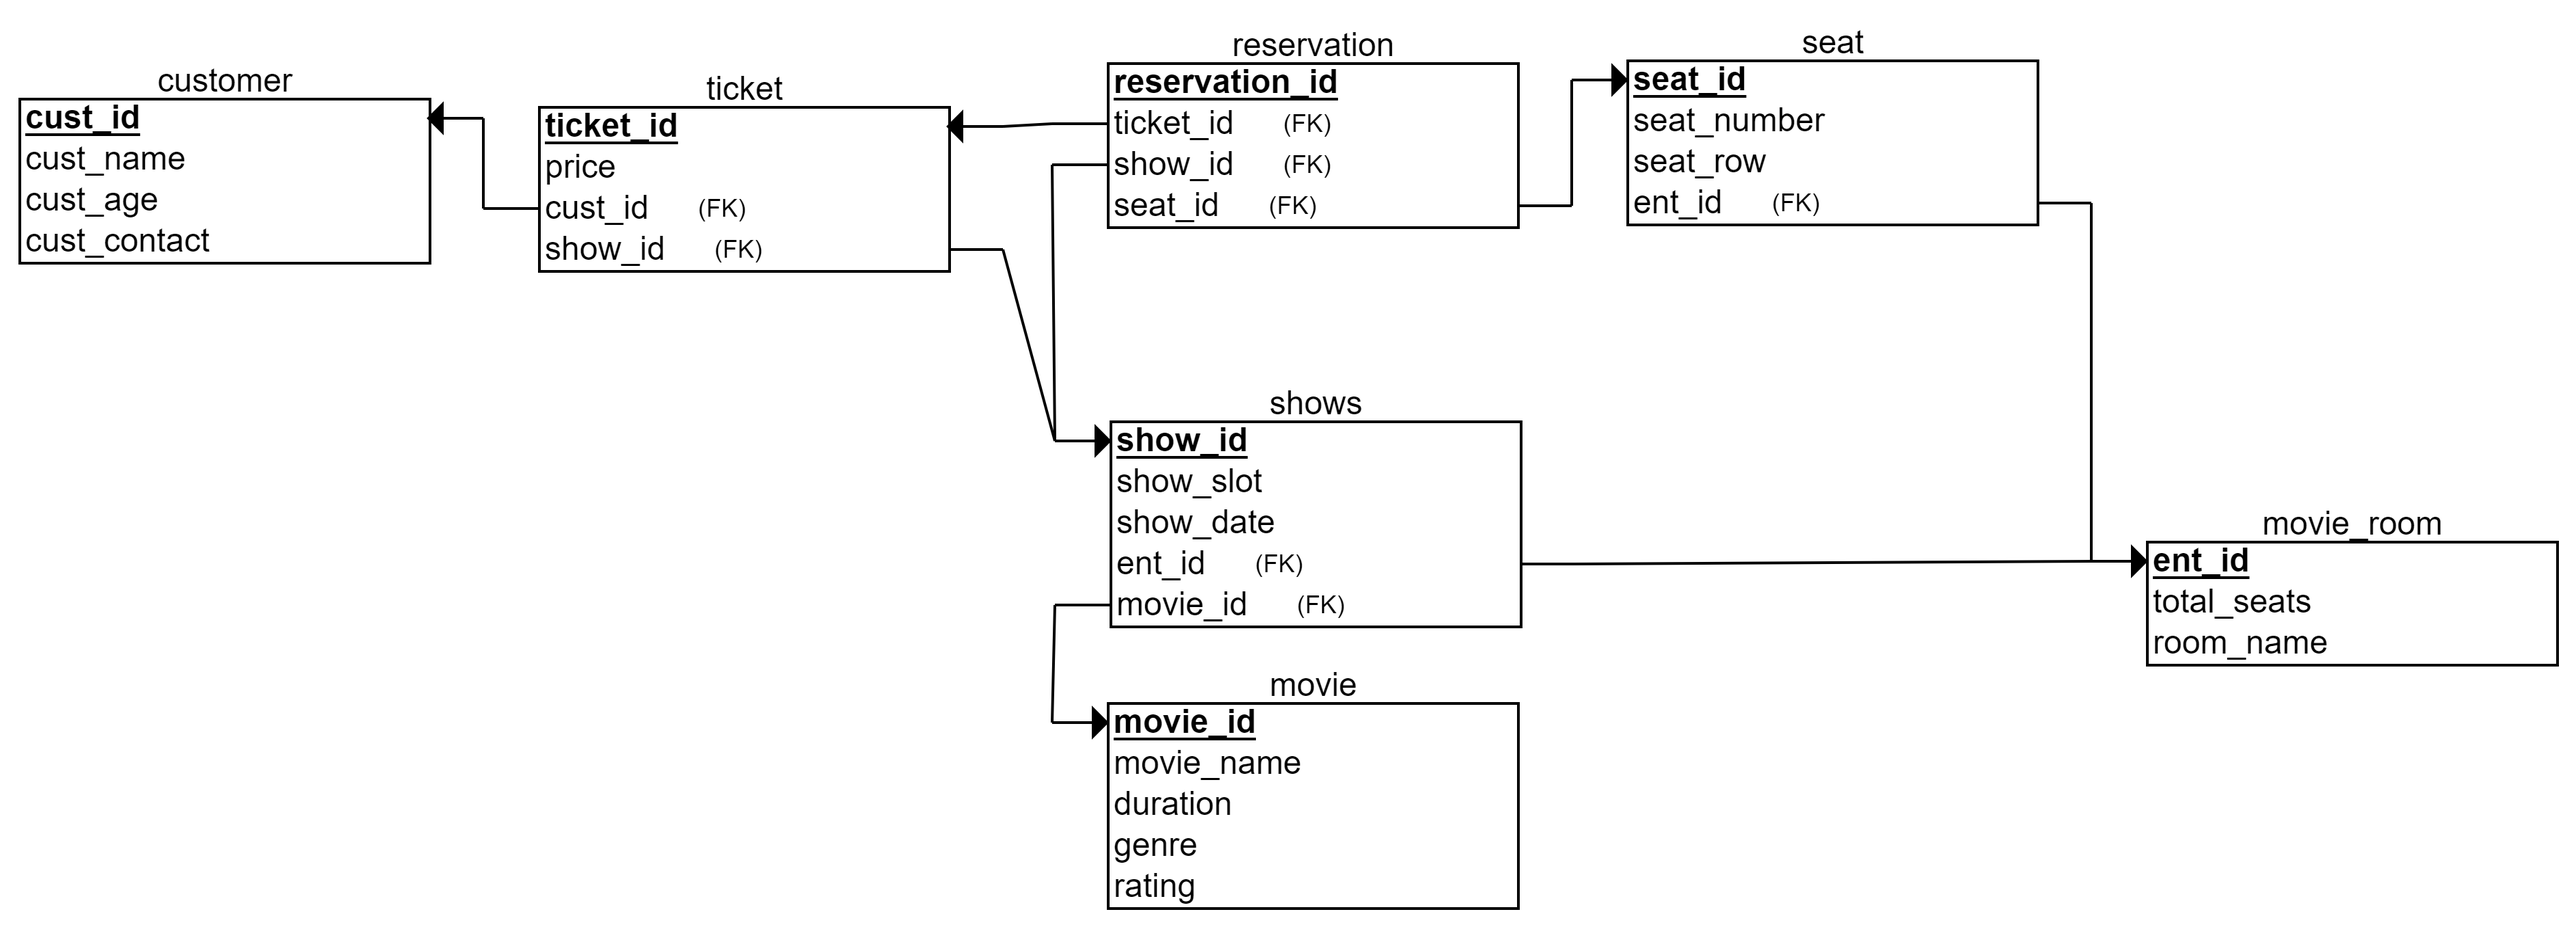
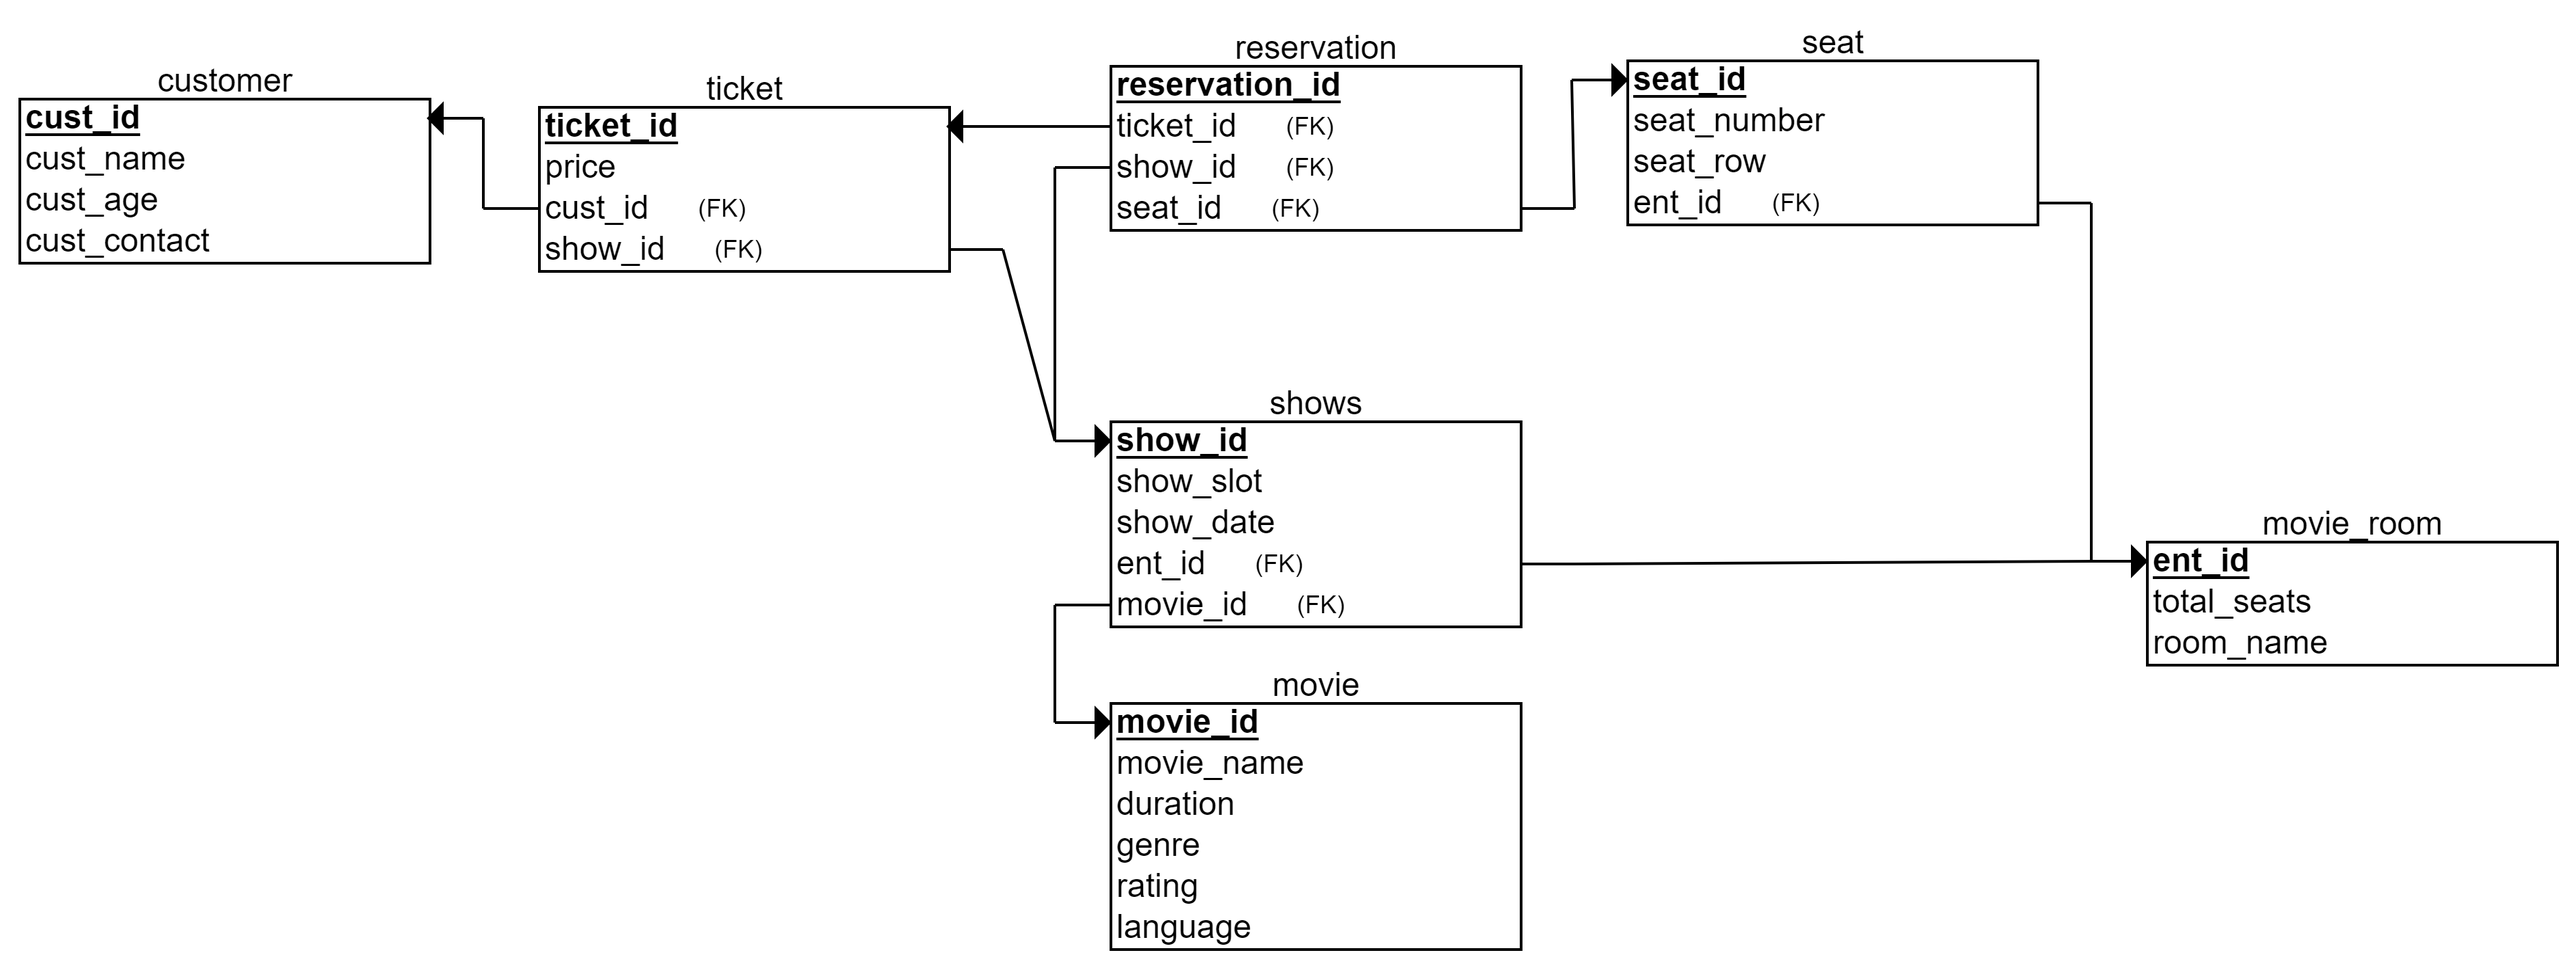
Update schema and normalization

diff --git a/table/README.md b/table/README.md
@@ -3,11 +3,13 @@
 ```sh
 CREATE TABLE movie
 (
+  movie_id VARCHAR NOT NULL,
   movie_Name VARCHAR NOT NULL,
   duration VARCHAR NOT NULL,
   genre VARCHAR NOT NULL,
   rating VARCHAR NOT NULL,
-  PRIMARY KEY (movie_Name)
+  lang VARCHAR NOTNULL,
+  PRIMARY KEY (movie_id)
 );
  INSERT INTO Movie VALUES
   ('Inception', '148', 'Thriller', '5'),
@@ -64,10 +66,10 @@ CREATE TABLE shows
   show_slot VARCHAR NOT NULL,
   show_Date DATE NOT NULL,
   ent_Id VARCHAR NOT NULL,
-  movie_Name VARCHAR NOT NULL,
+  movie_id VARCHAR NOT NULL,
   PRIMARY KEY (show_Id),
   FOREIGN KEY (ent_Id) REFERENCES movie_room(ent_Id),
-  FOREIGN KEY (movie_Name) REFERENCES movie(movie_Name)
+  FOREIGN KEY (movie_id) REFERENCES movie(movie_id)
 );
 INSERT INTO Shows VALUES
   ('SHW1', 'slotA', '2021-09-07', 'ENT1', 'The Eternals'),
